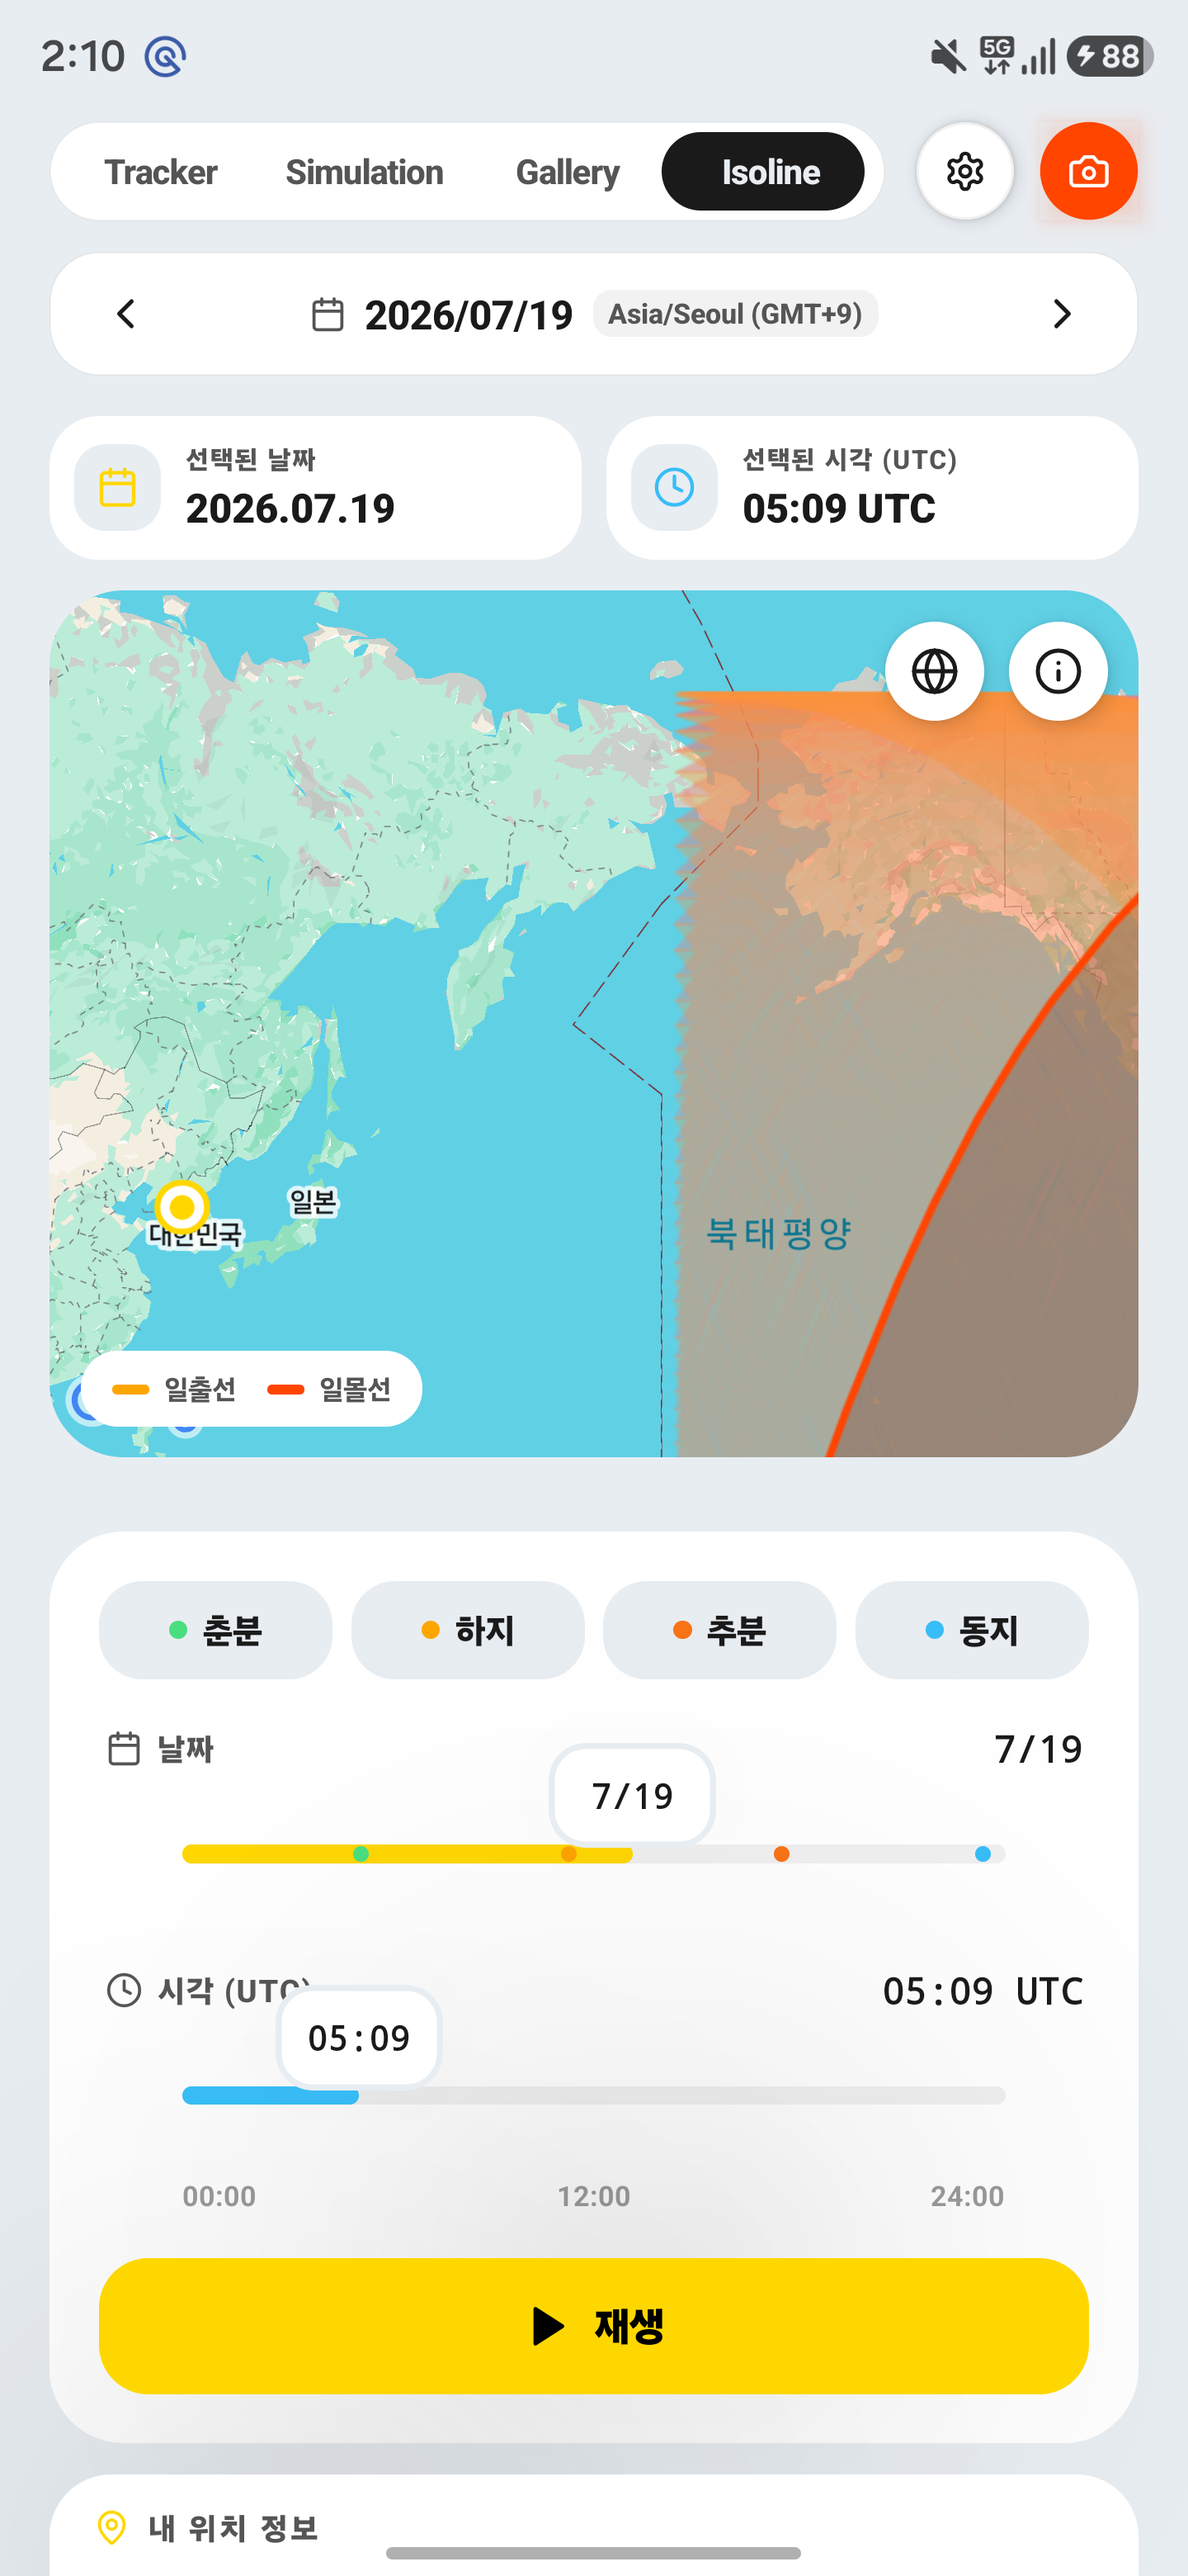
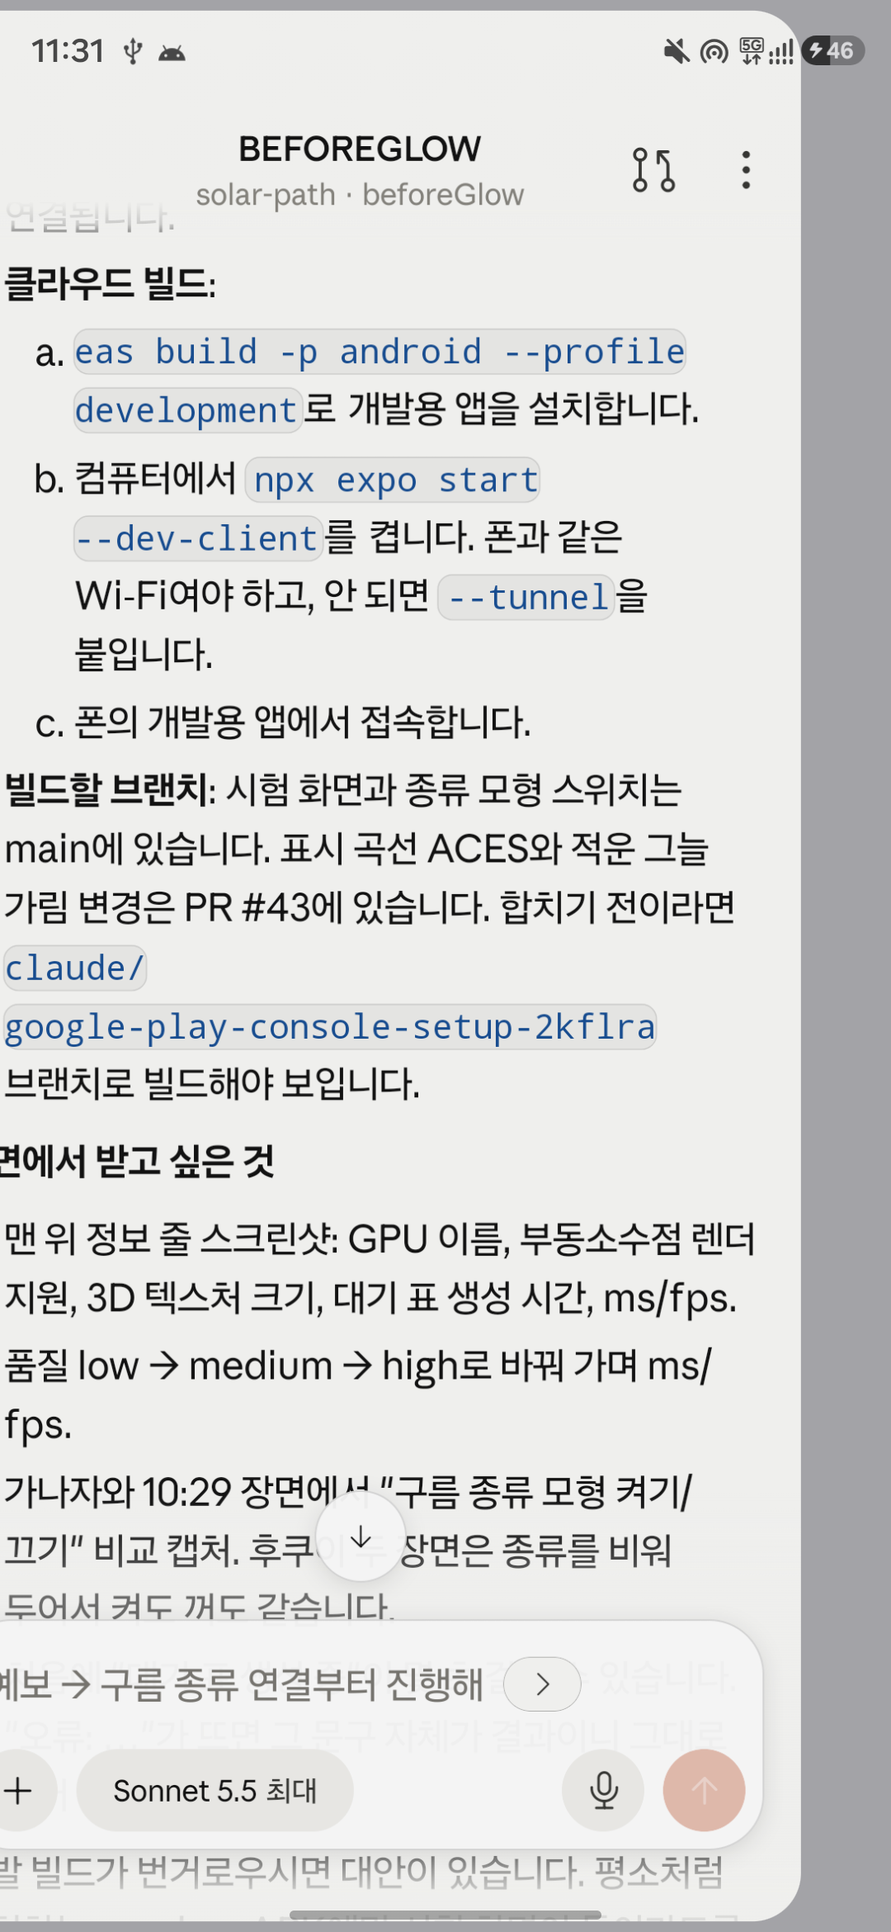
feat: enhance volumetric probe visualization and update scene rendering in SkyScene3D

diff --git a/src/components/SkyScene3D/SkyScene3D.tsx b/src/components/SkyScene3D/SkyScene3D.tsx
@@ -1345,7 +1345,7 @@ export const SkyScene3D = forwardRef<SkyScene3DHandle, SkyScene3DProps>((
               //   앱 화면이 그 크기로 줄어듭니다(웹 하네스에서 1/4 화면). 그래서 **전체 크기**로 만들고 구름만 해상도 배율로 낮춥니다.
               mod.createVolumetricScene(renderer as unknown as THREE.WebGLRenderer, gl.drawingBufferWidth, gl.drawingBufferHeight, { genus: true, celestial: false })
                 .then(v => { v.setResolutionScale(0.5); volRef.current = v; volBusyRef.current = false; volKeyRef.current = ''; volSizeRef.current = `${gl.drawingBufferWidth}x${gl.drawingBufferHeight}`; volSettleRef.current = 24; setVolumetricStatus({ phase: 'running' }); requestRender(3); })
-                .catch(e => { volFailedRef.current = '생성: ' + String((e as Error)?.message ?? e); volBusyRef.current = false; setVolumetricStatus({ phase: 'failed', error: volFailedRef.current }); console.warn('[SkyScene] 볼륨 하늘 생성 실패:', e); requestRender(2); });
+                .catch(e => { volFailedRef.current = '생성: ' + String((e as Error)?.message ?? e); volBusyRef.current = false; setVolumetricStatus({ phase: 'failed', error: volFailedRef.current }); console.warn('[SkyScene] 볼륨 하늘 생성 실패:', (e as Error)?.stack ?? e); requestRender(2); });
             }
           }
           if (volWant && volRef.current) {

diff --git a/src/components/VolumetricProbe/volumetricScene.ts b/src/components/VolumetricProbe/volumetricScene.ts
@@ -300,6 +300,19 @@ export async function createVolumetricScene(
   renderer: WebGLRenderer, width: number, height: number,
   options: Partial<VolumetricOptions> = {},
 ): Promise<VolumetricScene> {
+  // ⚠ expo-gl(React Native) 대응:
+  // three.js의 readRenderTargetPixelsAsync는 WebGL2 PBO를 사용해 gl.readPixels(..., 0) 및 fenceSync를 호출합니다.
+  // expo-gl은 PBO offset 인자(ARG(6) Object 기대)와 fenceSync를 지원하지 않아 JSI에서
+  // "Value is a number, expected an object" 예외가 발생합니다.
+  // takram 대기 생성기의 CPU 픽셀 데이터(userData.imageData)는 GPU 셰이더 샘플러를 쓰는
+  // CloudsEffect/AerialPerspectiveEffect에서 전혀 쓰이지 않으므로, 버퍼를 즉시 반환하여 통과시킵니다.
+  if (renderer.readRenderTargetPixelsAsync) {
+    renderer.readRenderTargetPixelsAsync = async function (
+      _rt: unknown, _x: number, _y: number, _w: number, _h: number, buffer: any,
+    ) {
+      return buffer;
+    };
+  }
   const opt: VolumetricOptions = { ...DEFAULT_VOLUMETRIC_OPTIONS, ...options };
   const baseMarch = { n: 0, step: 0, scale: 0 };
   const camera = new PerspectiveCamera(60, width / height, 1, 1e7);
